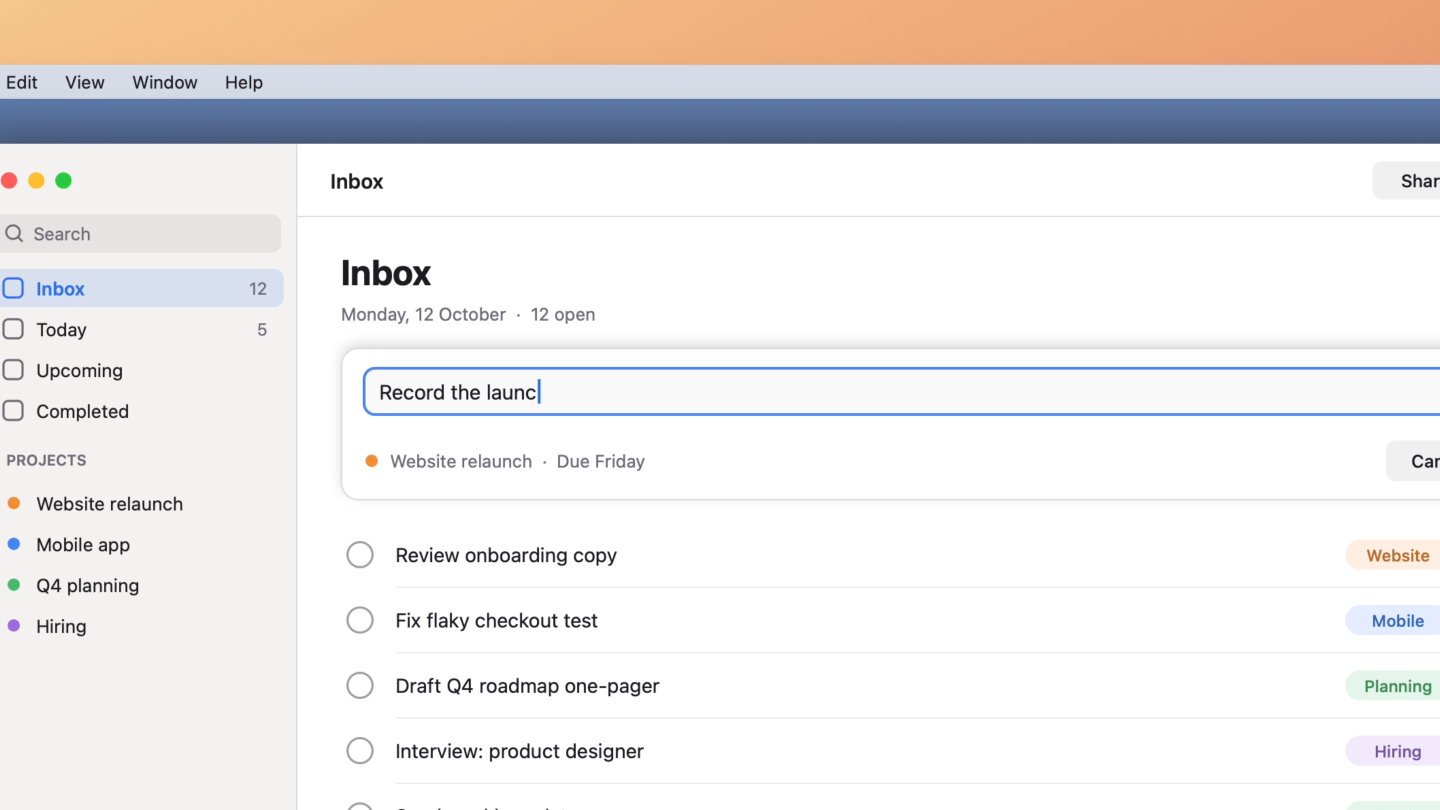
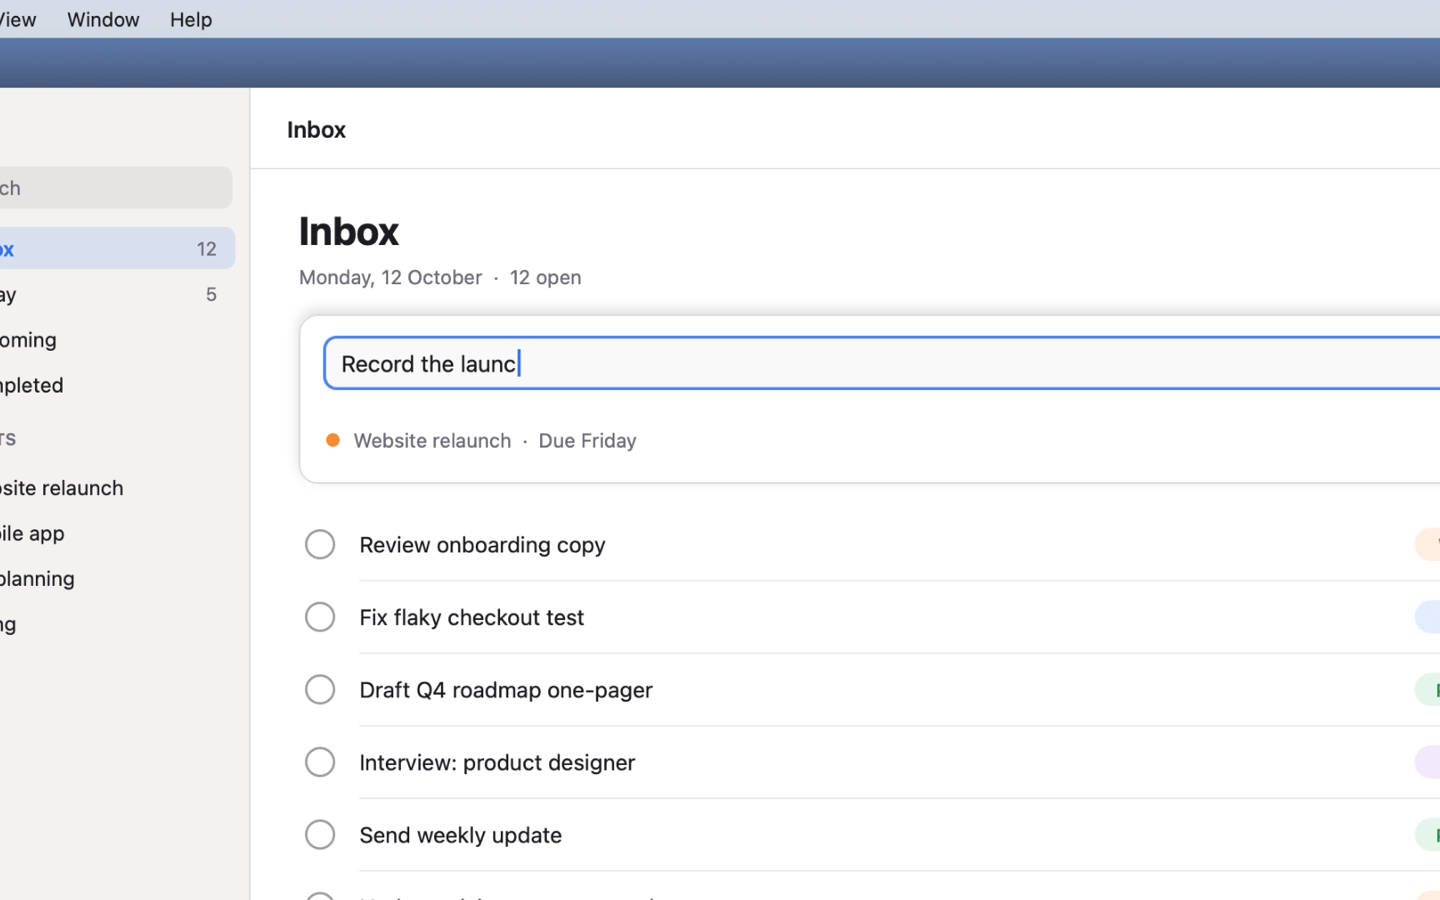
Render: zoomed shots fill the frame edge to edge instead of showing a strip of background

diff --git a/Sources/ReelbirdRender/RenderPlan.swift b/Sources/ReelbirdRender/RenderPlan.swift
@@ -261,6 +261,22 @@ struct CanvasLayout {
         return SIMD4(Float(ax), Float(ay), Float(bx), Float(by))
     }
 
+    /// Moves the camera centre so that, once a zoom is deep enough to cover the canvas on an axis, the
+    /// zoomed screen fills the frame edge to edge instead of showing a strip of background where the
+    /// focus sits near the screen's edge. Blended in as coverage approaches, so the camera never jumps.
+    func fillCenter(scale s: Double, center c: NormPoint) -> NormPoint {
+        guard !crops, s > 1 else { return c }
+        func axis(_ v: Double, span: Double) -> Double {
+            let target = min(max(v, min(span / 2, 0.5)), max(1 - span / 2, 0.5))
+            let t = min(1, max(0, (1.2 - span) / 0.25))
+            return v + (target - v) * (t * t * (3 - 2 * t))
+        }
+        // Visible source span per axis: the whole canvas measured in source units.
+        let spanX = base.x * Double(width) / (s * Double(card.width))
+        let spanY = base.y * Double(height) / (s * Double(card.height))
+        return NormPoint(x: axis(c.x, span: spanX), y: axis(c.y, span: spanY))
+    }
+
     /// Whether the card is a window onto part of the source (narrow outputs).
     var crops: Bool { base.x < 0.999 || base.y < 0.999 }
 

diff --git a/Sources/ReelbirdRender/Compositor.swift b/Sources/ReelbirdRender/Compositor.swift
@@ -106,7 +106,8 @@ final class Compositor {
         let layout = CanvasLayout(plan: plan, width: W, height: H)
         let edit = plan.edit
         let src = plan.timeline.sourceTime(forOutput: outputTime)
-        let (s, c) = plan.camera.transform(at: src)
+        let (s, rawCenter) = plan.camera.transform(at: src)
+        let c = layout.fillCenter(scale: s, center: rawCenter)
 
         let rp = MTLRenderPassDescriptor()
         rp.colorAttachments[0].texture = target
@@ -131,7 +132,7 @@ final class Compositor {
             let sp = plan.timeline.sourceTime(forOutput: max(0, outputTime - shutter))
             if abs((src - sp) - shutter) < 1e-3 {
                 srcPrev = sp
-                let pt = plan.camera.transform(at: srcPrev); prev = (pt.scale, pt.center)
+                let pt = plan.camera.transform(at: srcPrev); prev = (pt.scale, layout.fillCenter(scale: pt.scale, center: pt.center))
                 var maxMove = 0.0
                 // How far visible content moves on screen: the corners and centre of the current view.
                 let v = plan.camera.viewport(at: src)
